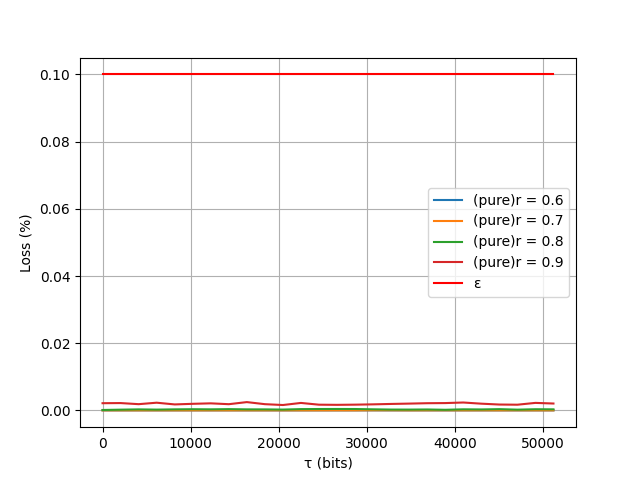
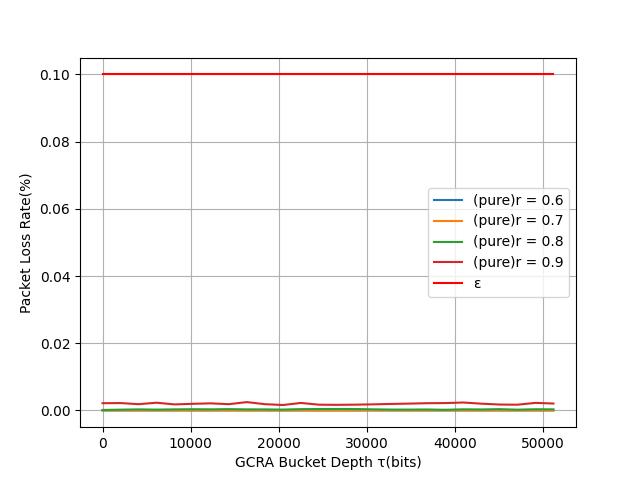
update burst_all_compliant chart

Changed region(s): [[0.375, 0.9375, 0.6562, 1.0], [0.0312, 0.375, 0.0625, 0.6562]]

diff --git a/Simulation/python/average_loss_all.py b/Simulation/python/average_loss_all.py
@@ -43,8 +43,8 @@ if(name == 'burst_all_compliant'):
     
     # Configure plot appearance for pure loss chart
     # plt.title('Average Packet Loss Rate with different τ and r value (All Compliant)', fontsize=12)
-    plt.xlabel('τ (bits)')
-    plt.ylabel('Loss (%)')
+    plt.xlabel('GCRA Bucket Depth τ(bits)')
+    plt.ylabel('Packet Loss Rate(%)')
     plt.legend()
     plt.grid(True)
     
@@ -57,15 +57,15 @@ if(name == 'burst_all_compliant'):
         # Filter dataframe by state_r value and extract all loss data
         loss = dataframe[dataframe['state_r'] == key][['average_loss_all']]
         # Plot all loss data for current r value with line style and label
-        plt.plot(tau, loss, linestyle='-', label='(all)r = '+str(key), alpha = 1)
+        plt.plot(tau, loss, linestyle='-', label='r = '+str(key), alpha = 1)
 
     # Add horizontal reference line at 0.1 (epsilon threshold)
     plt.plot(tau, [0.1 for i in tau], linestyle='-', color = 'red', label='ε')
     
     # Configure plot appearance for all loss chart
-    # plt.title('Average Packet Loss Rate with different τ and r value (All Compliant)', fontsize=12)
-    plt.xlabel('τ (bits)')
-    plt.ylabel('Loss (%)')
+    plt.title('Average Packet Loss Rate with different level of burst (All Compliant)', fontsize=12)
+    plt.xlabel('GCRA Bucket Depth τ(bits)')
+    plt.ylabel('Packet Loss Rate(%)')
     plt.legend()
     plt.grid(True)
     
